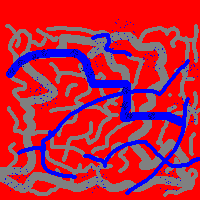
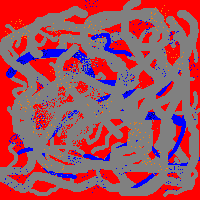
addd new world and decorartions

diff --git a/engine/game.py b/engine/game.py
@@ -3,7 +3,7 @@
 #разделяемое состояние всех объектов игры
 from config import *
 
-from random import randrange
+from random import randrange, choice
 from weakref import proxy
 
 #game = None
@@ -19,6 +19,7 @@ class __GameSingleton(ObjectContainer, EventsContainer):
     def __init__(self):
         ObjectContainer.__init__(self)
         EventsContainer.__init__(self)
+
     
     def start(self):
         from world import World, UnderWorld
@@ -30,6 +31,7 @@ class __GameSingleton(ObjectContainer, EventsContainer):
         self.worlds = {}
         self.worlds['ground'] = World('ground',proxy(self))
         self.worlds['underground'] = UnderWorld('underground', proxy(self))
+        self.worlds['underground2'] = UnderWorld('underground2', proxy(self))
         
         for world in self.worlds.values():
             world.start()
@@ -42,7 +44,8 @@ class __GameSingleton(ObjectContainer, EventsContainer):
         new_world = self.worlds[world]
         player.location.pop_player(player.name)
         
-        new_position = new_world.choice_position(player, new_world.size)
+        teleport_point = choice(new_world.teleports)
+        new_position = new_world.choice_position(player, 3, teleport_point)
         li, lj = (new_position/TILESIZE/LOCATIONSIZE).get()
         player._position = new_position
         player._prev_position = new_position

diff --git a/engine/gameobjects/misc.py b/engine/gameobjects/misc.py
@@ -5,6 +5,32 @@ from random import randrange
 from player import Player
 from config import *
 
+
+class Teleport(StaticObject, Solid):
+    radius = TILESIZE
+    BLOCKTILES = ['stone', 'forest', 'ocean']
+    def __init__(self, world, position):
+        StaticObject.__init__(self, world, position)
+        self.world.teleports.append(position)
+    
+    @wrappers.player_filter(Guided)
+    def collission(self, player):
+        print 'teleport', player, self.to_world
+        game.change_world(player, self.to_world)
+    
+
+        
+    def remove(self):
+        StaticObject.remove(self)
+        return True
+
+class Cave(Teleport):
+    to_world = 'underground'
+    
+class Stair(Teleport):
+    to_world = 'ground'
+
+
 class Misc(StaticObject):
     BLOCKTILES = Player.BLOCKTILES
     def __init__(self, world, position):
@@ -18,13 +44,12 @@ class Mushroom(Misc):
     count = 12
 
 class Plant(Misc):
-    count = 32
+    count = 10
 
 class WaterFlower(Misc):
     count = 21
-    def __init__(self, world, position):
-        Misc.__init__(self, world, position)
-        self.BLOCKTILES = ['grass', 'forest', 'bush', 'stone', 'underground']
+    BLOCKTILES = ['grass', 'forest', 'bush', 'stone', 'underground']
+
     
 
 class Stone(Misc):

diff --git a/engine/world.py b/engine/world.py
@@ -29,6 +29,7 @@ class MetaWorld(MetaWorldTools):
         self.game = game
         self.name = name
         self.mapname = mapname
+        self.teleports = []
         
         self.map, self.size, self.background = load_map(mapname)
         
@@ -133,6 +134,19 @@ class UnderWorld(MetaWorld):
     
     def start(self):
         self.create_item(200, Stair)
+        #self.create_item(200, DownCave)
+        self.create_object(100, Zombie)
+        self.create_object(20, Lych)
+        self.create_object(20, Ghast)
+        self.create_object(20, Cat)
+
+class UnderWorld2(MetaWorld):
+    "подземелье"
+    def __init__(self, name,  game):
+        MetaWorld.__init__(self, game, name,  'underground2')
+    
+    def start(self):
+        #self.create_item(200, UpCave)
         self.create_object(100, Zombie)
         self.create_object(20, Lych)
         self.create_object(20, Ghast)

diff --git a/engine/gameobjects/items.py b/engine/gameobjects/items.py
@@ -75,24 +75,5 @@ class Cloak(Item):
         player.set_invisible(self.invisible_time)
 
 
-class Teleport(StaticObject, Solid):
-    radius = TILESIZE
-    BLOCKTILES = ['stone', 'forest', 'ocean']
-    def __init__(self, world, position):
-        StaticObject.__init__(self, world, position)
-    
-    @wrappers.player_filter(Guided)
-    def collission(self, player):
-        print 'teleport', player, self.to_world
-        game.change_world(player, self.to_world)
-    
 
-        
-    def remove(self):
-        StaticObject.remove(self)
-        return True
-class Cave(Teleport):
-    to_world = 'underground'
-    
-class Stair(Teleport):
-    to_world = 'ground'
+

diff --git a/clientside/view/objects_lib.py b/clientside/view/objects_lib.py
@@ -40,7 +40,6 @@ class ClientObject:
         
     
     def delay(self, *args):
-        print 'delay'
         self.delayed = True
     
     def remove(self):

diff --git a/engine/engine_lib.py b/engine/engine_lib.py
@@ -5,7 +5,6 @@ from mathlib import *
 
 from random import choice, random
 from time import time
-from copy import deepcopy
 
 game = None
 
